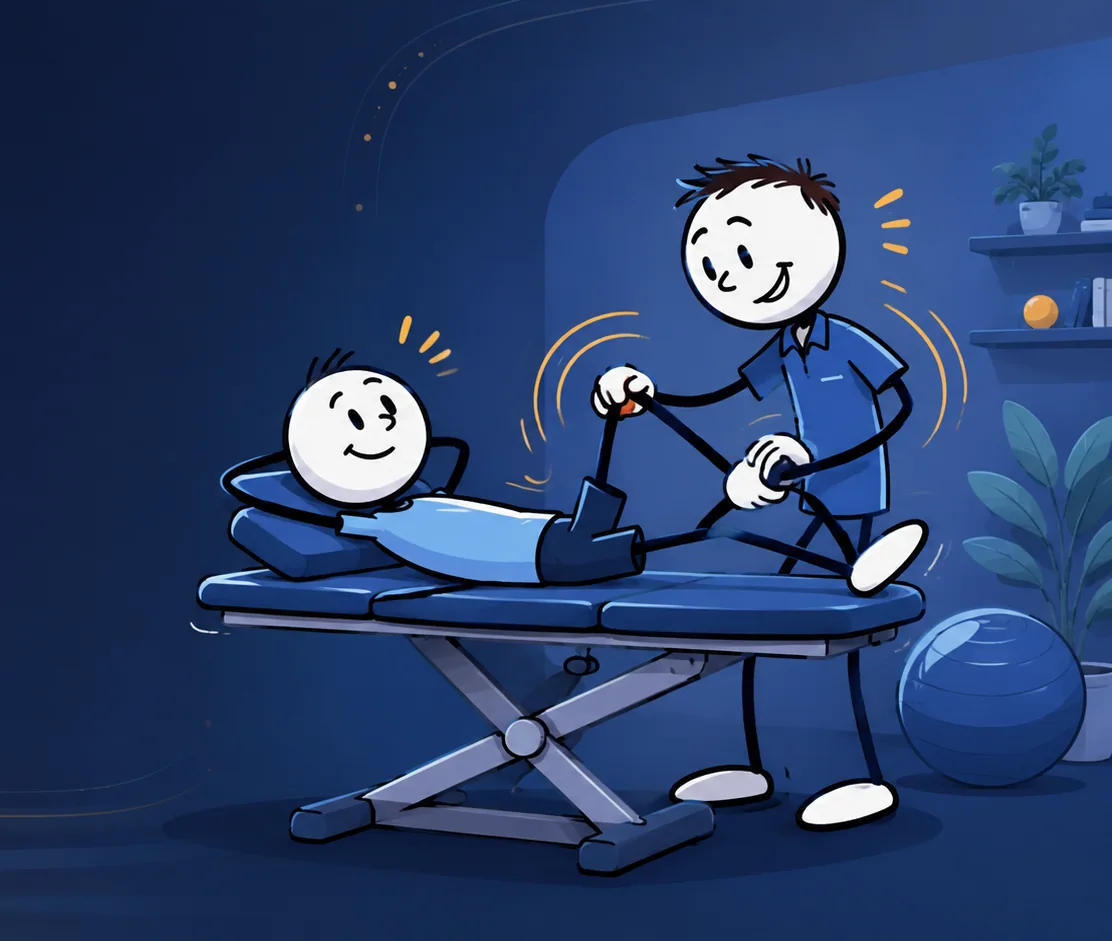
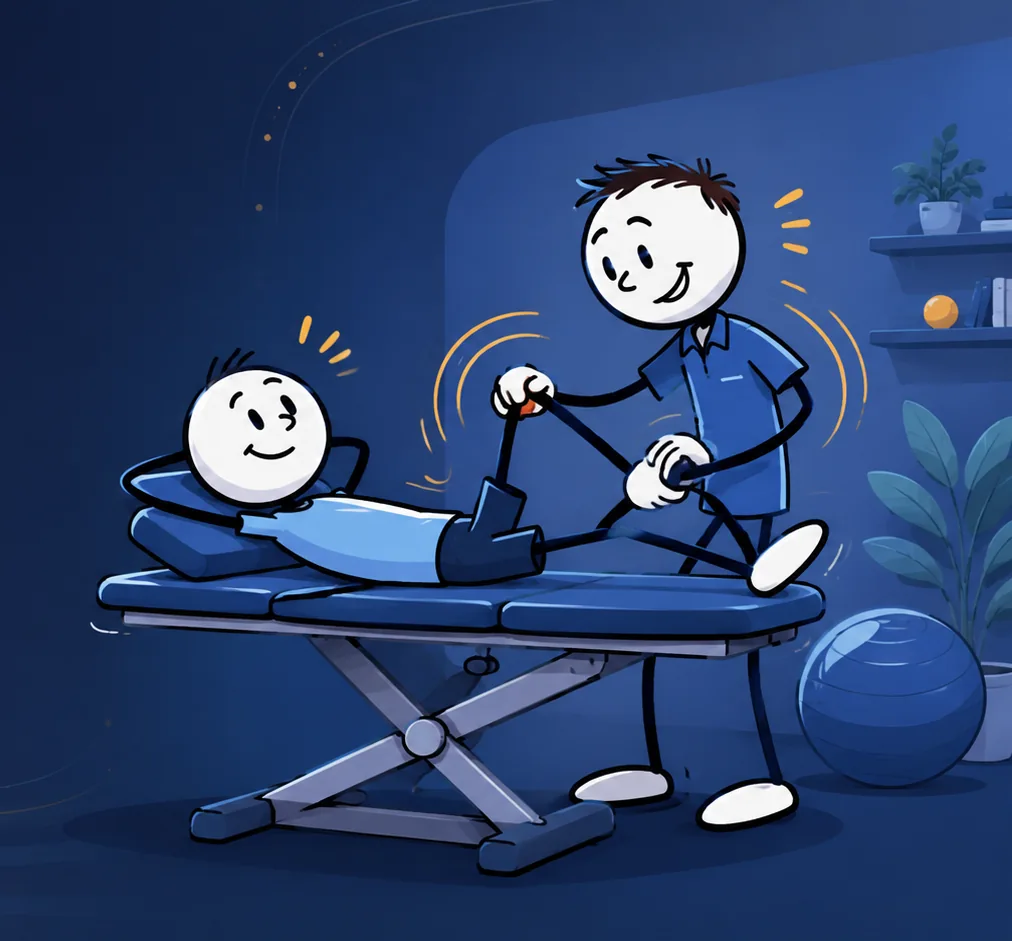
Strichmaennchen im Hero-Panel wieder sichtbar
Die liegende Patientenfigur begann im vorherigen Zuschnitt fast genau
an der Stelle, an der die Ausblendmaske noch nicht fertig eingeblendet
war (Figurenrand bei ca. 18% der Bildbreite, Maske erst bei 26% voll
sichtbar), dadurch wirkte sie ausgewaschen bis unsichtbar. Per
Pixelanalyse des Originalbilds (Schwarz-/Weiss-Anteile je Spalte,
Vignette-Ecke oben links herausgerechnet) den echten Figurenanfang
bestimmt: Er liegt bei Original-x=755, nicht wie geschaetzt bei 900.

Neu zugeschnitten (Rand vor der Figur von 340px auf rund 95px verkuerzt)
und die Maske gestrafft, sodass sie schon bei 6% der Bildbreite voll
opak ist, mit rechnerisch bestaetigtem Sicherheitsabstand von rund
35px vor dem ersten Figurenpixel. Betroffen war nur das seitliche
Panel ab 1160px; die Kartenversion fuer kleinere Schirme hat keine
Maske und zeigte die Figur bereits vollstaendig.

diff --git a/index.html b/index.html
@@ -327,7 +327,7 @@
   <div class="hero-visual" aria-hidden="true">
     <picture>
       <source srcset="img/hero-praxis.webp" type="image/webp">
-      <img src="img/hero-praxis.jpg" alt="" width="1112" height="941" loading="eager" fetchpriority="high" decoding="async">
+      <img src="img/hero-praxis.jpg" alt="" width="1012" height="941" loading="eager" fetchpriority="high" decoding="async">
     </picture>
   </div>
   <div class="wrap" style="width:100%">

diff --git a/home.css b/home.css
@@ -727,8 +727,8 @@
     display: block;
     width: 100%;
     height: auto;
-    -webkit-mask-image: linear-gradient(to right, transparent 0%, rgba(0,0,0,.5) 12%, #000 26%);
-    mask-image: linear-gradient(to right, transparent 0%, rgba(0,0,0,.5) 12%, #000 26%);
+    -webkit-mask-image: linear-gradient(to right, transparent 0%, rgba(0,0,0,.6) 3%, #000 6%);
+    mask-image: linear-gradient(to right, transparent 0%, rgba(0,0,0,.6) 3%, #000 6%);
   }
 }
 
